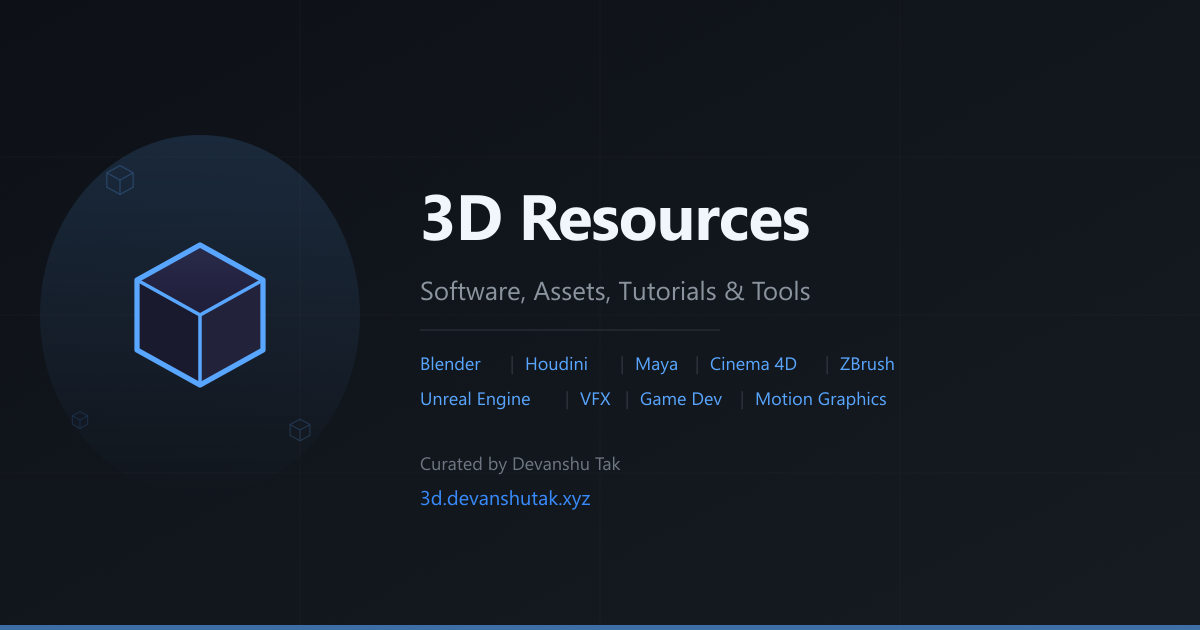
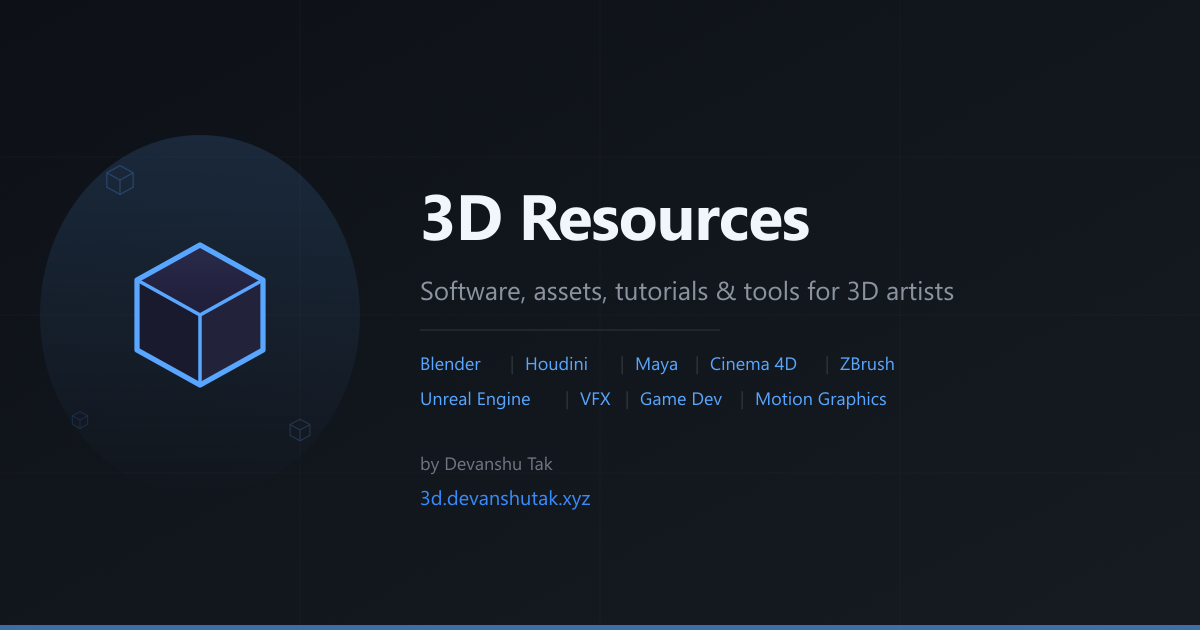
updated wording

Changed region(s): [[0.4317, 0.4524, 0.8017, 0.4825], [0.3392, 0.7238, 0.5242, 0.754]]

diff --git a/README.md b/README.md
@@ -1,4 +1,4 @@
-# [3D Resources — Software, Assets, Tutorials & Tools for 3D Artists](https://3d.devanshutak.xyz)
+# [3D Resources: Software, Assets, Tutorials & Tools for 3D Artists](https://3d.devanshutak.xyz)
 
 > A curated collection of **free and paid 3D software, assets, textures, HDRIs, tutorials, plugins, and learning resources** for Blender, Houdini, Cinema 4D, Maya, ZBrush, Unreal Engine, and more. Covers 3D modeling, animation, VFX, rendering, game development, motion graphics, and digital art.
 
@@ -452,7 +452,7 @@
 
 ### Houdini
 
-> *"Houdini isn't scary. So much of learning Houdini is asking questions and talking to people about how they solve problems so you can gain your own intuition."* — Christopher Rutledge, [Houdini Nerd](https://discord.gg/E9zA9Ft)
+> *"Houdini isn't scary. So much of learning Houdini is asking questions and talking to people about how they solve problems so you can gain your own intuition."* - Christopher Rutledge, [Houdini Nerd](https://discord.gg/E9zA9Ft)
 
 **Getting Started:**
 - [SideFX Learn](https://www.sidefx.com/learn/) - Official curated learning hub.
@@ -780,7 +780,7 @@
 
 ## 3D Communities & Forums
 
-- [**3D Artists India**](https://3dartists.in/) - India's 3D artist community — events, resources, networking.
+- [**3D Artists India**](https://3dartists.in/) - India's 3D artist community - events, resources, networking.
 - [ArtStation](https://www.artstation.com/) - Professional portfolios.
 - [Polycount](https://polycount.com/) - Game art.
 - [CGSociety](https://cgsociety.org/) - VFX & animation pros.
@@ -1356,22 +1356,22 @@
 - [Job Openings Tracker](https://docs.google.com/spreadsheets/d/1eR2oAXOuflr8CZeGoz3JTrsgNj3KuefbdXJOmNtjEVM/) - Animation/VFX jobs.
 
 ### Industry Trends 2025-2026
-- **AI in Production Pipelines** — AI handling roto, denoise, upres, texture drafts, matchmove cleanup. Studios (ILM, Weta, DNEG) deploying at scale. Not replacing artists, accelerating tedious work.
-- **Real-Time Path Tracing** — Shipping in games (Cyberpunk 2077, Alan Wake 2). NVIDIA RTX 50-series (Blackwell) + DLSS 4 with neural rendering. Real-time quality approaching offline.
-- **Gaussian Splatting Maturity** — Went from SIGGRAPH 2023 paper to practical tools (Polycam, Luma AI, Scaniverse). 4D Gaussian Splatting for dynamic scenes is active research.
-- **USD + MaterialX + OpenPBR** — The emerging "holy trinity" of interchange standards. OpenUSD Alliance (Apple, Pixar, Adobe, Autodesk, NVIDIA) driving standardization.
-- **ACES 2.0** — Major update to Academy Color Encoding System (2024). New output transforms, improved highlight rendering.
-- **WebGPU Adoption** — Shipped in Chrome, Firefox/Safari progressing. Enables compute shaders in browser. Three.js, Babylon.js, PlayCanvas adding WebGPU backends.
-- **Blender 4.x Rise** — EEVEE Next (GPU ray tracing), Vulkan backend, extensions platform. Genuinely production-viable.
-- **Virtual Production** — LED volumes maturing from bleeding-edge to standardized. Disguise, Brompton, Mo-Sys as infrastructure leaders.
-- **Neural Rendering** — NVIDIA Neural Texture Compression, Neural Radiance Cache (DLSS 4). Disney/Weta publishing on neural light transport.
+- **AI in Production Pipelines** - AI handling roto, denoise, upres, texture drafts, matchmove cleanup. Studios (ILM, Weta, DNEG) deploying at scale. Not replacing artists, accelerating tedious work.
+- **Real-Time Path Tracing** - Shipping in games (Cyberpunk 2077, Alan Wake 2). NVIDIA RTX 50-series (Blackwell) + DLSS 4 with neural rendering. Real-time quality approaching offline.
+- **Gaussian Splatting Maturity** - Went from SIGGRAPH 2023 paper to practical tools (Polycam, Luma AI, Scaniverse). 4D Gaussian Splatting for dynamic scenes is active research.
+- **USD + MaterialX + OpenPBR** - The emerging "holy trinity" of interchange standards. OpenUSD Alliance (Apple, Pixar, Adobe, Autodesk, NVIDIA) driving standardization.
+- **ACES 2.0** - Major update to Academy Color Encoding System (2024). New output transforms, improved highlight rendering.
+- **WebGPU Adoption** - Shipped in Chrome, Firefox/Safari progressing. Enables compute shaders in browser. Three.js, Babylon.js, PlayCanvas adding WebGPU backends.
+- **Blender 4.x Rise** - EEVEE Next (GPU ray tracing), Vulkan backend, extensions platform. Genuinely production-viable.
+- **Virtual Production** - LED volumes maturing from bleeding-edge to standardized. Disguise, Brompton, Mo-Sys as infrastructure leaders.
+- **Neural Rendering** - NVIDIA Neural Texture Compression, Neural Radiance Cache (DLSS 4). Disney/Weta publishing on neural light transport.
 
 ### Pipeline Standards
-- **[OpenUSD](https://openusd.org/)** — Scene interchange standard for film/TV VFX. Apple Vision Pro uses USDZ.
-- **[MaterialX](https://materialx.org/)** — Material interchange format (Lucasfilm). Supported by USD, Blender, Maya, Houdini, Arnold, RenderMan, Substance.
-- **[OpenPBR](https://github.com/AcademySoftwareFoundation/OpenPBR)** — Standardized uber-shader for PBR (Autodesk + Adobe). Early adoption phase.
-- **[ACES 2.0](https://acescentral.com/)** — Academy Color Encoding System. Widely adopted in film/TV, growing in games.
-- **[OpenTimelineIO](https://github.com/AcademySoftwareFoundation/OpenTimelineIO)** — Editorial timeline interchange (Pixar).
+- **[OpenUSD](https://openusd.org/)** - Scene interchange standard for film/TV VFX. Apple Vision Pro uses USDZ.
+- **[MaterialX](https://materialx.org/)** - Material interchange format (Lucasfilm). Supported by USD, Blender, Maya, Houdini, Arnold, RenderMan, Substance.
+- **[OpenPBR](https://github.com/AcademySoftwareFoundation/OpenPBR)** - Standardized uber-shader for PBR (Autodesk + Adobe). Early adoption phase.
+- **[ACES 2.0](https://acescentral.com/)** - Academy Color Encoding System. Widely adopted in film/TV, growing in games.
+- **[OpenTimelineIO](https://github.com/AcademySoftwareFoundation/OpenTimelineIO)** - Editorial timeline interchange (Pixar).
 
 ### Pipeline Overview
 
